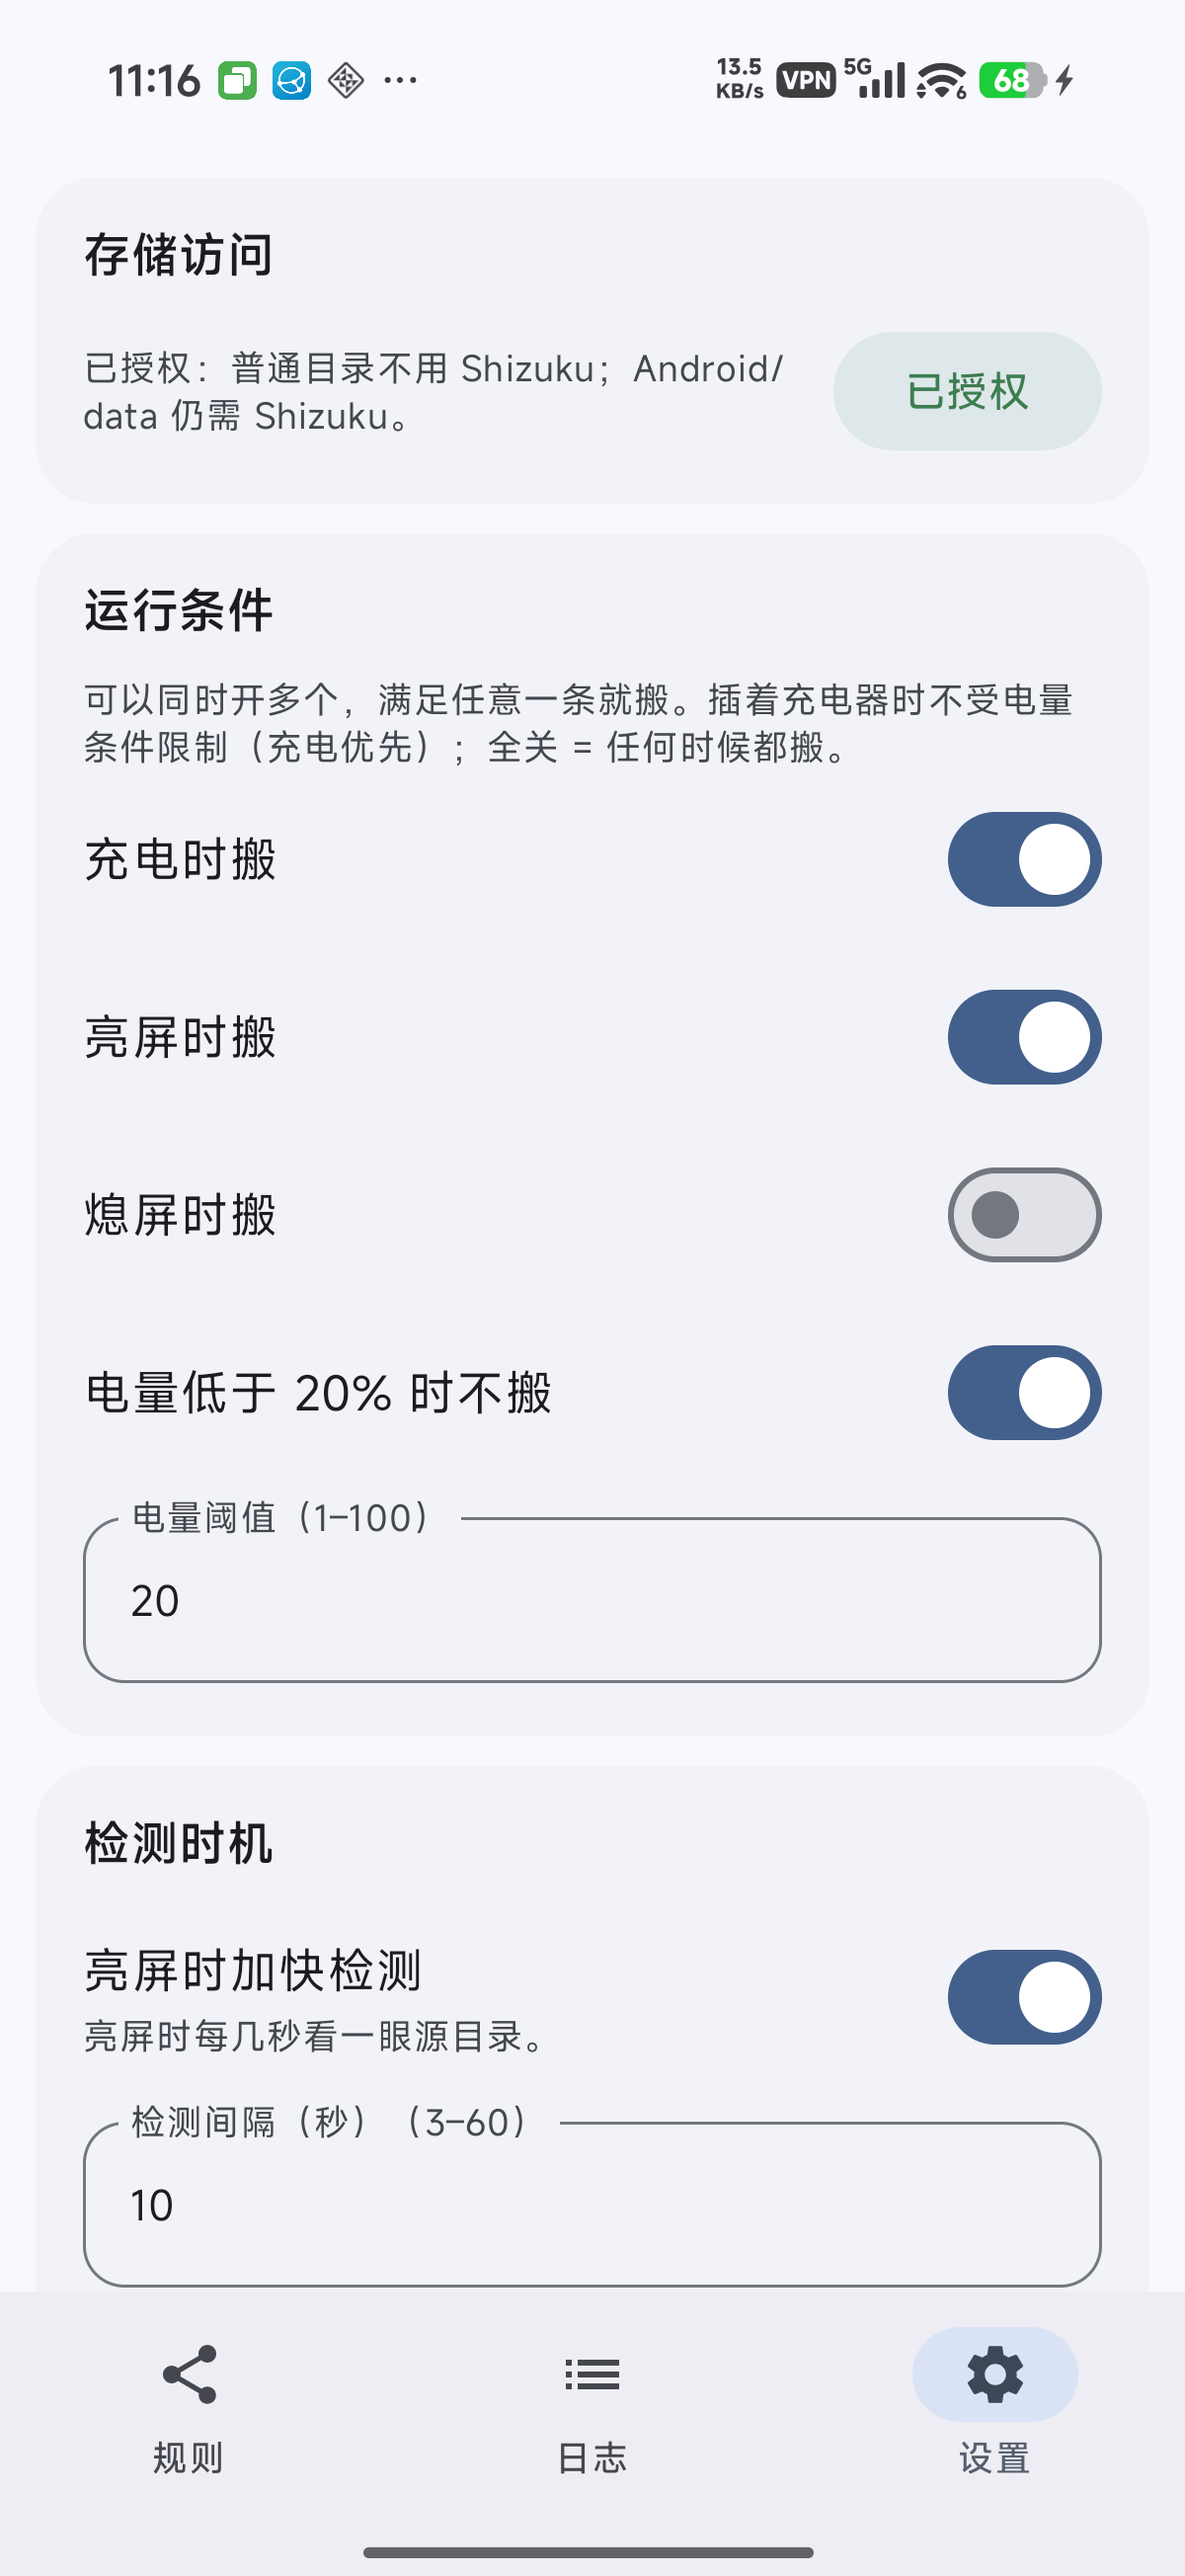
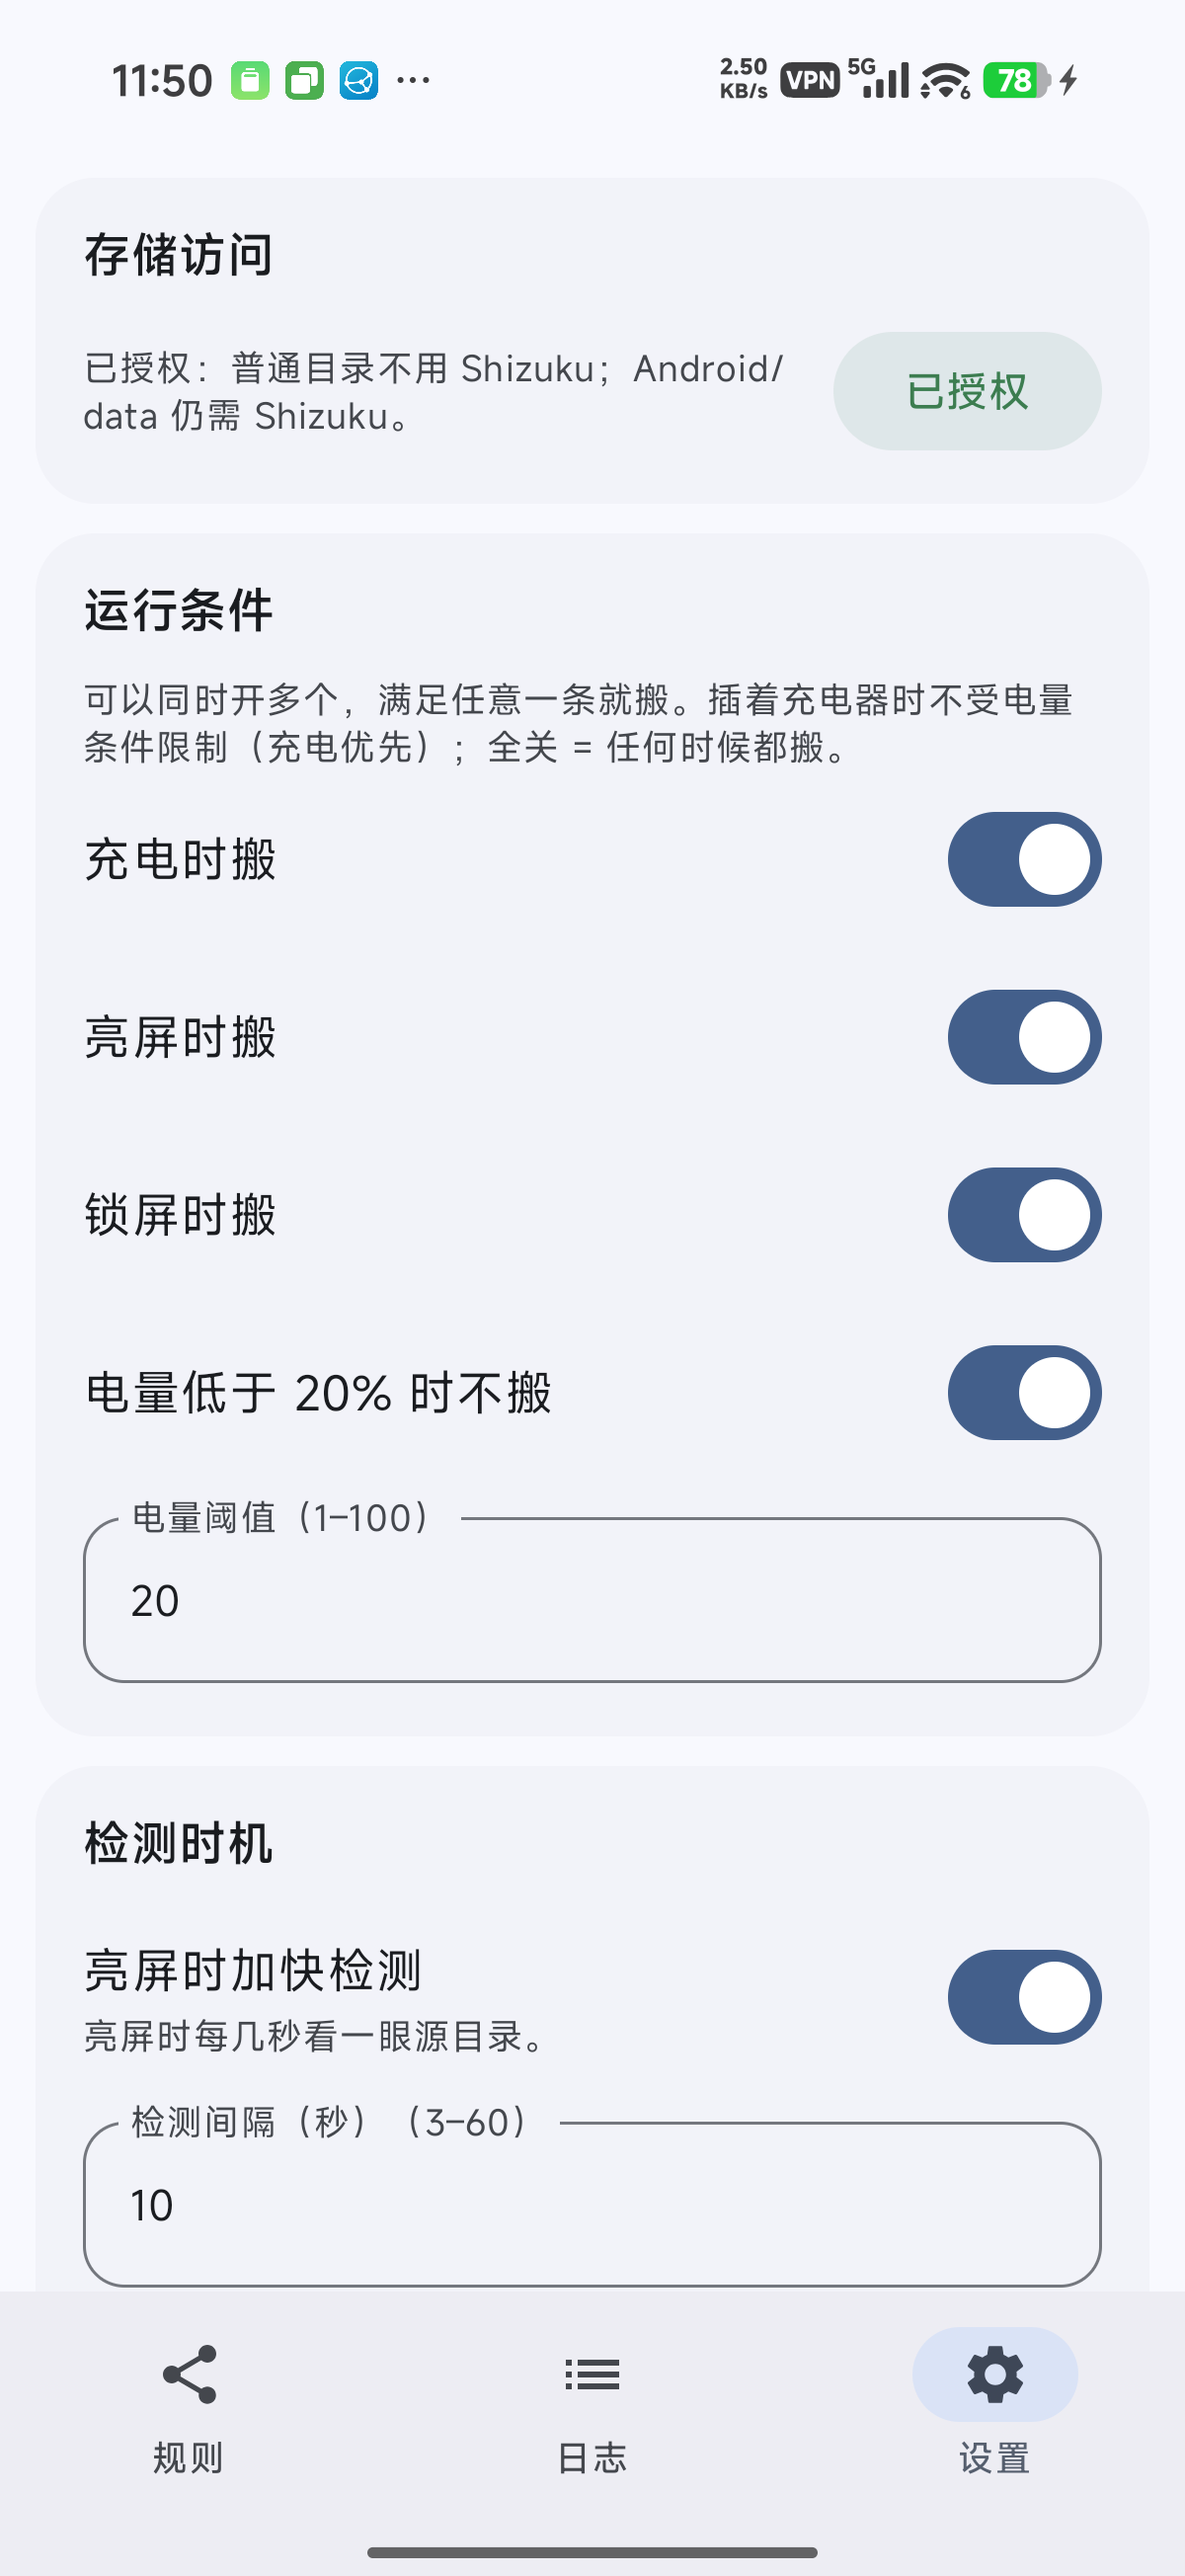
fix(watch): 锁屏后也做快节奏检测；「熄屏时搬」改叫「锁屏时搬」
- 用户口径：锁屏与息屏是同一个状态（屏幕熄灭或停在锁屏界面）
- 锁屏后每 30 秒 stat 一次源目录，目录一变就立刻扫，不再干等规则自己的 5 分钟间隔
- 亮屏时仍按设置的间隔（默认 10 秒）；完整扫描仍每 30 秒一次兜底
- 设置项、帮助文案、README/手册里的「熄屏」统一改为「锁屏」
- 版本 0.20.9 / versionCode 36；226 个单测全过
- 真机：断充 + 锁屏 + 后台，放图 50 秒后自动搬走（未打开 App）

diff --git a/app/src/main/java/com/landslide/shitu/service/WatchService.kt b/app/src/main/java/com/landslide/shitu/service/WatchService.kt
@@ -30,8 +30,7 @@ import kotlinx.coroutines.launch
  *
  * 两种节奏：
  * - **屏幕亮着且解锁** → 每 fastIntervalSec 秒跑一次「快节奏检测」（只 stat 目录，真变了才扫）；
- * - **其他时候** → 每 30 秒按规则自己的间隔跑（设置里开了「熄屏后暂停扫描」则跳过），
- *   另加 WorkManager 15 分钟兜底；亮屏解锁会立刻补跑一次。
+ * - **锁屏/息屏** → 每 30 秒跑一次同样的快节奏检测 + 按规则间隔的完整扫描，另加 WorkManager 15 分钟兜底。
  */
 class WatchService : Service() {
 
@@ -140,17 +139,13 @@ class WatchService : Service() {
             val s = app.currentSettings()
             // 每次都用系统的真实状态：锁屏/亮屏广播偶尔会漏，缓存的 screenUsable 一旦错了会整段跑偏
             screenUsable = computeScreenUsable()
-            if (screenUsable && s.fastWhileActive) {
-                if (!app.hasChannel()) {
-                    // 未就绪：走常规节奏，顺便把"未就绪"提示刷新到通知上
-                    runCatching { tick(force = false) }
-                } else {
-                    // 快节奏：只 stat 目录，真变了才扫（屏幕亮着时唤醒不额外耗电）
-                    runCatching { app.runFastLane() }
-                    // 原来只有搬了东西才刷新通知，屏幕亮着时通知会一直停在启动文案；
-                    // 现在每轮都刷新（正文没变时 refresh 内部跳过，不会重复发通知）。
-                    refresh()
-                }
+            // 快节奏检测：只 stat 目录，真变了才真扫。
+            // 锁屏/息屏也跑（30 秒一拍）：新图不用再干等规则间隔（最长 5 分钟），更不用打开 App。
+            if (s.fastWhileActive && app.hasChannel()) {
+                runCatching { app.runFastLane() }
+                // 原来只有搬了东西才刷新通知，屏幕亮着时通知会一直停在启动文案；
+                // 现在每轮都刷新（正文没变时 refresh 内部跳过，不会重复发通知）。
+                refresh()
             }
             // 不管屏幕状态，每 TICK_MS 至少做一次「到期规则」的完整扫描：
             // 快节奏只看目录 mtime，快节奏没盯到的变化（嵌套目录、条件不满足期间产生的文件）

diff --git a/app/src/main/java/com/landslide/shitu/core/RunConditions.kt b/app/src/main/java/com/landslide/shitu/core/RunConditions.kt
@@ -6,9 +6,9 @@ import com.landslide.shitu.data.Settings
  * 运行条件判定（纯函数，方便单测）。
  *
  * 语义（和设置页文案一致）：
- * - **场景条件**：充电时搬 / 亮屏时搬 / 熄屏时搬 / 夜间，是多选；同时开多个 = **满足任一即可**，
- *   全关 = 任何时候都搬。旧实现是「每项都必须满足」，导致「充电 + 亮屏」两开时，
- *   熄屏放一晚上都等不到「亮屏」、图片一张不搬。
+ * - **场景条件**：充电时搬 / 亮屏时搬 / 锁屏时搬 / 夜间，是多选；同时开多个 = **满足任一即可**，
+ *   全关 = 任何时候都搬。锁屏和息屏按同一个状态算（屏幕熄灭或停在锁屏界面）。旧实现是「每项都必须满足」，
+ *   导致「充电 + 亮屏」两开时，锁屏放一晚上都等不到「亮屏」、图片一张不搬。
  * - **电量**是否决条件：不充电时，电量低于阈值或系统省电模式就暂停；**插着充电器时不受电量限制**。
  *
  * 返回空列表 = 可以跑；否则是给通知看的原因。
@@ -54,7 +54,7 @@ object RunConditions {
                 val wants = buildList {
                     if (settings.runOnlyCharging) add("充电")
                     if (settings.runOnlyScreenOn) add("亮屏")
-                    if (settings.runOnlyScreenOff) add("熄屏")
+                    if (settings.runOnlyScreenOff) add("锁屏")
                     if (settings.runOnlyNight) {
                         add("夜间 ${settings.nightStartHour}:00–${settings.nightEndHour}:00")
                     }

diff --git a/app/src/main/java/com/landslide/shitu/data/SettingsStore.kt b/app/src/main/java/com/landslide/shitu/data/SettingsStore.kt
@@ -57,8 +57,9 @@ data class Settings(
     val language: Int = AppLocale.SYSTEM,
     // —— 运行条件（多选；默认全关 = 和以前一样，随时都能搬） ——
     val runOnlyCharging: Boolean = false,
-    /** 只在亮屏（且解锁）时搬；和 [runOnlyScreenOff] 可以同时选（= 任何时候都搬） */
+    /** 只在亮屏（且解锁）时搬；和 [runOnlyScreenOff] 可以同时选（= 任何时候都搬）；锁屏/息屏算同一个状态 */
     val runOnlyScreenOn: Boolean = false,
+    /** 只在锁屏（屏幕熄灭或停在锁屏界面）时搬 */
     val runOnlyScreenOff: Boolean = false,
     /** 只在夜间搬运；时段默认 22:00–07:00（跨午夜用 hourInNightRange 判断） */
     val runOnlyNight: Boolean = false,

diff --git a/app/src/main/java/com/landslide/shitu/service/WatchText.kt b/app/src/main/java/com/landslide/shitu/service/WatchText.kt
@@ -9,7 +9,7 @@ package com.landslide.shitu.service
  *
  * @param moved 累计已搬张数（服务启动时从规则表恢复，进程重启后不会退回 0）
  * @param lastRunLabel 上次运行时间（HH:mm）；从没跑过传 null
- * @param status 本轮附加状态（「没有到期规则」「熄屏暂停中」等），可为 null
+ * @param status 本轮附加状态（「没有到期规则」「等运行条件」等），可为 null
  */
 internal fun watchText(moved: Long, lastRunLabel: String?, status: String? = null): String {
     val base = when {

diff --git a/docs/2026-10-04-shitu-验证记录.md b/docs/2026-10-04-shitu-验证记录.md
@@ -548,6 +548,37 @@ RuleIo 12、safeDirName 9）。Room 4→5 迁移（rules 加 3 列）后：原 1
 - 单测 **226 个全过**；`assembleRelease` 成功。
 - 备注：测试图是「与目标同名同内容」的重复图，按规则删掉了源文件（进了系统回收站），不是误删；两张测试图可在相册回收站清掉。
 
+---
+
+## 16. 0.20.9 锁屏搬运完善（2026-10-18 上午）
+
+**用户反馈**：锁屏/息屏后新图不搬，无论充不充电；要求把「熄屏时搬」改叫「锁屏时搬」，并完整梳理搬运逻辑。
+
+**术语**：本机把锁屏与息屏视为同一个状态——屏幕熄灭或停在锁屏界面（`isInteractive == false` 或
+`KeyguardManager.isKeyguardLocked == true`）都算「锁屏」；「亮屏」= 屏幕亮着且已解锁。
+
+**排查结论（0.20.8 之后还剩的缺口）**：
+- 运行条件、隐藏的「熄屏暂停」、定时扫描三处在 0.20.8 已修；实测 11:26~11:40 锁屏期间，用户自己下载的图片仍在按规则间隔搬（日志）。
+- 但锁屏时**不跑快节奏检测**，新图要等规则自己的间隔（默认 5 分钟）才搬；打开 App 会强制扫一次，造成「只有打开 App 才搬」的错觉。
+- 排查证据：设置页「锁屏时搬」已开；通知心跳每 30 秒更新（服务没被冻结）；模拟断充 + Doze（`force-idle`）下心跳仍继续，
+  说明不是服务休眠或条件判断的问题，而是锁屏后缺少「目录一变就扫」的快速通道。
+
+**修复**：
+- `WatchService`：快节奏检测不再只在亮屏时跑——锁屏时也每 30 秒跑（只 stat 源目录，变了才真扫）；亮屏时仍按用户设置的间隔（默认 10 秒）。
+  新图在锁屏后约 30–60 秒内触发扫描，不再干等规则的 5 分钟。
+- 完整扫描仍每 30 秒做一次（按规则间隔），兜住嵌套目录、条件不满足期间产生的内容。
+- 文案：用户可见的「熄屏时搬」全部改为「锁屏时搬」，帮助文案、README、使用手册同步。
+
+**真机验证**（Redmi K90 Pro Max / 9120c444 / Android 16）：
+- 模拟断开充电（`dumpsys battery unplug`）+ 锁屏 + App 在后台：11:45:49 往 `/sdcard/DCIM` 放新图，**没打开 App**，
+  11:46:39 已搬（50 秒）；日志见 `docs/verify/62-logs-fastlock.png`，设置页见 `docs/screenshots/settings.png`（「锁屏时搬」）。
+- 同一时段用户自己下载的图片也在锁屏后台被搬（11:26 / 11:29 / 11:32 / 11:35 / 11:40），不是单次偶然。
+- 模拟 Doze（`dumpsys deviceidle force-idle`）下通知心跳仍每 30 秒更新、扫描继续；本机已在电池白名单
+  （`dumpsys deviceidle whitelist` 有 `com.landslide.shitu`）。
+- 226 单测全过；`assembleRelease` 成功；本机 0.20.9 / versionCode 36。
+- 备注：模拟「不充电」用了 `dumpsys battery unplug`，验证后已 `dumpsys battery reset` 还原；测试图仍是同内容重复图，
+  按规则删源进回收站。
+
 
 
 

diff --git a/docs/使用手册.md b/docs/使用手册.md
@@ -65,7 +65,7 @@
 ## 四·五、0.12.5 新增的几个开关
 
 - **语言**：设置最上面 —— 跟随系统 / 中文 / English，点了立刻生效，不用去改系统语言。
-- **运行条件**（多选，**满足任意一条就搬**）：充电时搬 / 亮屏时搬 / 熄屏时搬 / 电量低于 N% 时不搬（插着充电器时不受电量限制）。
+- **运行条件**（多选，**满足任意一条就搬**）：充电时搬 / 亮屏时搬 / 锁屏时搬 / 电量低于 N% 时不搬（插着充电器时不受电量限制）。
   **全关 = 任何时候都搬**。
 - **只搬最近 N 天 / 不小于 N KB**：编辑规则 → 源目录里填，留空 = 不限。用来忽略老图、缩略图、表情包。
 - **目标按 App 分子目录**：编辑规则 → 目标目录里打开，图会进 `DCIM/起点读书/…` 这样的子目录。
@@ -111,7 +111,7 @@
 | --- | --- | --- |
 | 快节奏检测 | 屏幕亮着且解锁，每 10 秒看一眼源目录变没变（只看目录时间，很省电），真变了才扫 | 十几秒 |
 | 写完就搬 | 文件「大小 + 修改时间」两次没变（默认间隔 3 秒）就搬 | 几秒 |
-| 按间隔轮询 | 一直工作（含熄屏），按每条规则自己的间隔整目录扫一遍 | 1–30 分钟 |
+| 按间隔轮询 | 一直工作（含锁屏），按每条规则自己的间隔整目录扫一遍 | 1–30 分钟 |
 | WorkManager 兜底 | 常驻服务被系统清掉时 | 15 分钟 |
 
 正在下载的文件不会被提前搬走。嫌慢：设置 → 检测速度，把间隔调到 3 秒。嫌费电：关掉「正在用手机时加快检测」。

diff --git a/docs/版本历史.md b/docs/版本历史.md
@@ -128,3 +128,13 @@
 - 坑：旧设置里的 `screenOffPause=true` 会悄悄覆盖运行条件；本地模拟更新要临时允许 cleartext（`usesCleartextTraffic`）
   才能走 `adb reverse`，验证完必须还原。
 - 验证：226 单测全过；真机截图 52~56。
+
+## 2026-10-18 上午快照（0.20.9）
+
+- 状态：**0.20.9 / versionCode 36**，本地提交，**未推送**（等用户决定）。
+- 大方向：把「熄屏」统一叫「锁屏」（用户认为两者是同一个状态）；锁屏后也跑快节奏检测——每 30 秒只 stat 源目录，
+  一变就立刻扫，新图不再干等规则自己的 5 分钟间隔；完整扫描仍每 30 秒一次兜底。
+- 排查确认：0.20.8 的条件 / 隐藏暂停 / 定时扫描修复有效；锁屏后台日志显示用户图片持续在搬；Doze 下通知心跳正常，
+  本机已在电池白名单，问题剩下「锁屏后没有快速检测」这一处。
+- 验证：226 单测全过；真机断充 + 锁屏 + 后台，11:45:49 放图、11:46:39 搬走（未打开 App），截图 62；
+  设置页截图按「锁屏时搬」重拍。

diff --git a/README.en.md b/README.en.md
@@ -74,7 +74,7 @@ Without Shizuku, pictures inside `Android/data` can't be reached (the system doe
 - **Edit rule**: name, source, target, mode, frequency, file names — plus a **dry-run preview**,
   "only last N days", "at least N KB", one subfolder per app, and **rename by content (15-char code)** so the same photo is never stored twice.
 - **Logs**: thumbnails, green/grey/blue result tags, filter panel, CSV export, and a search box that suggests paths used by your rules (✕ clears it).
-- **Settings**: run conditions (charging / screen on / screen off / low battery — **any selected one is enough**),
+- **Settings**: run conditions (charging / screen on / locked / low battery — **any selected one is enough**),
   storage access, detection timing, copy records (pick and clear), rule + settings backup, appearance & language,
   self-check, and **automatic update checks (at most once a day, with a notification when a new version is out)**.
 

diff --git a/docs/CHANGELOG.md b/docs/CHANGELOG.md
@@ -1,5 +1,15 @@
 # 更新日志
 
+## 0.20.9 — 2026-10-18
+
+**锁屏后新图也会及时搬，不用等 5 分钟或打开 App**
+
+- 「熄屏时搬」改名为「锁屏时搬」：锁屏和息屏按同一个状态算（屏幕熄灭或停在锁屏界面都算锁屏）。
+- 锁屏后也跑「快节奏检测」：每 30 秒只看一眼源目录有没有变，变了就立刻扫，不再干等规则自己的 5 分钟间隔；
+  亮屏时仍按设置的间隔（默认 10 秒）。
+- 完整扫描照旧每 30 秒做一次（按规则间隔），所以嵌套目录、条件不满足期间产生的图片也会补上。
+- 运行条件仍是「满足任意一条就搬」；充电时不受电量/省电限制。
+
 ## 0.20.8 — 2026-10-18
 
 **后台会自己搬了；有新版本会主动提醒**

diff --git a/README.md b/README.md
@@ -99,7 +99,7 @@
 
 **设置**
 
-- **运行条件**（可多选，**满足任意一条就搬**）：充电时搬 / 亮屏时搬 / 熄屏时搬 / 电量低于 X% 时不搬；全关 = 任何时候都搬。
+- **运行条件**（可多选，**满足任意一条就搬**）：充电时搬 / 亮屏时搬 / 锁屏时搬 / 电量低于 X% 时不搬；全关 = 任何时候都搬。
   插着充电器时不受电量限制。
 - **存储访问**：普通模式的授权入口。
 - **检测时机**：亮屏加速检测、写完就搬；运行参数折叠在底部。
